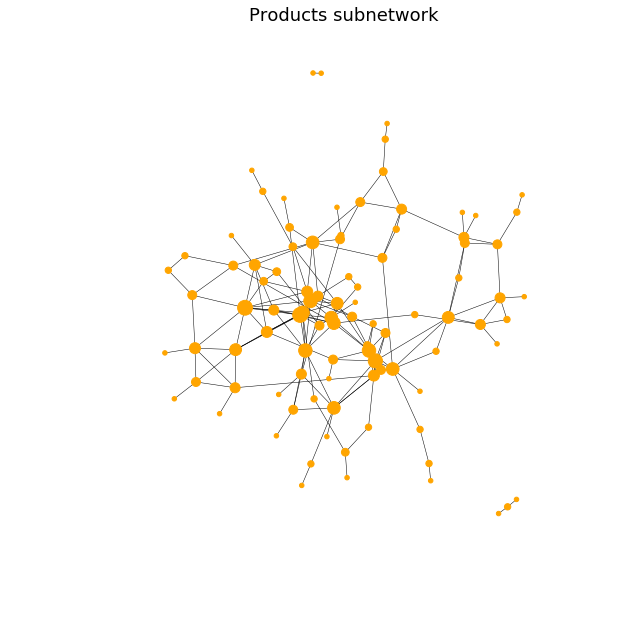
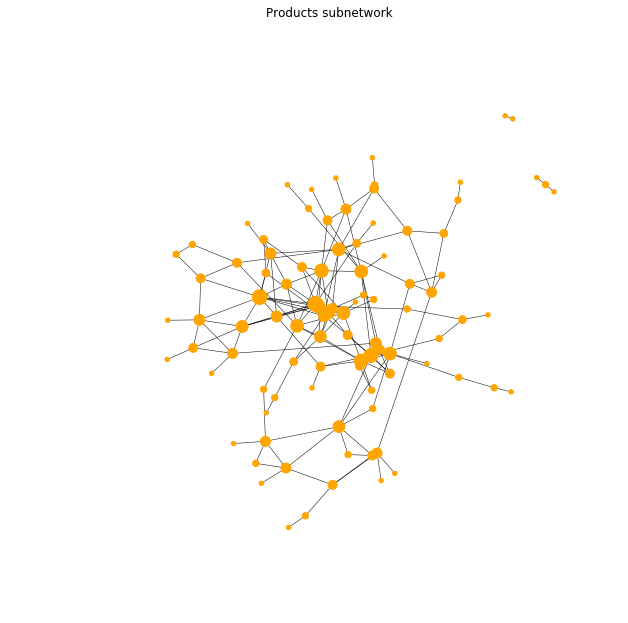
Update network analysis

diff --git a/_posts/2000-01-03-netowrkanalysis.md b/_posts/2000-01-03-netowrkanalysis.md
@@ -118,18 +118,38 @@ Below, the top 50 products are shown:
 ![product degree network](https://raw.githubusercontent.com/carmignanivittorio/SocialGraphProject/master/img/TopProduct.png)
 The result of this analysis reflects what we already found in the category analysis. Indeed, the top categories are the entertainment ones. Even though we already knew the top categories, this analysis revealed that there is a remarkable difference between them. This means the top category, Video DVD, has significantly more reviews than the second one, Music. The same is recursively respected among the other ones. Looking at the product's result, it confirms what category analysis suggested. In fact, almost all of the top 50 products correspond to DVD. An interesting point is that only two very famous mobile apps like Candy Crush Saga and Facebook, appear in the top 50. On the whole, we understood that customers are really in love with movies and DVD.
 {: .letft}
+### Subnetwork analysis
+Due to the large size of the network, we were not able to proceed the analysis using the projection based on the whole network. It requires an infeasible amount of time. Consequently, we decided to build the projection related to the [subnetwork](#Subnetwork). Throught this subnetwork's projection, we will study the centrality, assorativity and community property of the network.
+
+Below, the network is shown:
+{: .letft}
 ![product degree network](https://raw.githubusercontent.com/carmignanivittorio/SocialGraphProject/master/img/ProductDegreeNetwork.png)
 {: .center}
-
+The network has **134** nodes and **171** edges. Below, the degree distribution is shown:
+{: .letft}
+![subnetwork](https://raw.githubusercontent.com/carmignanivittorio/SocialGraphProject/master/img/SubProductDegreeDistribution.png)
+{: .center}
+The degree distribution follows the usual shape. Looking at the graph, it shows that there are some hub nodes in the middle which probably represent the products with more reviews.
+### Connectivity analysis
+In this section, we are interested in finding the centrality properties of the network. To do an accurate study, we will perform four different centrality analysis: degree centrality, closeness centrality, betweenness centrality and eigenvector centralities. By doing this, we want to understand if there are products more connected than others, as well as if there are some interesting relationship between the most connected and the isolated ones.
+#### Degree centrality
+This measure reflects what we have already seen before. In summary, it can be seen that there are more products which are poorly connected because they have been reviewed by customers which have reviewed only that product. Meanwhile, the products with higher degree correspond to the ones which have been reviewed by more active customers. With active we mean that they have reviewed more than one product.
+#### Closeness centrality
+{: .letft}
 ![product closeness](https://raw.githubusercontent.com/carmignanivittorio/SocialGraphProject/master/img/ProductClosenessNetwork.png)
 {: .center}
-
+This measure seems very similar to the customer network's one. The graph and the distribution suggest that there two main groups. The former is composed by nodes with a smaller closeness centrality. The latter is characterized by a higher value of closeness centrality. As in the customer network, we suppose that the first group represents the products with reviews made by inactive customers, whereas, the second one gathers the products reviewed by the active ones.
+#### Betweenness centrality
+{: .letft}
 ![product betweeness network](https://raw.githubusercontent.com/carmignanivittorio/SocialGraphProject/master/img/ProductBetweennessNetwork.png)
 {: .center}
-
+The graph and the distribution confirmed what we saw in the degree and closeness centralities. Indeed, the nodes with higher centralities have a higher betweenness. This is due to the fact that since they are more connected, they are more likely to work as a bridge between the shortest path of the other two nodes.
+#### Eigenvector centrality
+{: .letft}
 ![product eigenvector network](https://raw.githubusercontent.com/carmignanivittorio/SocialGraphProject/master/img/ProductEigenvectorNetwork.png)
 {: .center}
-
+The eigenvector centrality enforces what we have seen in the previous one. It can be seen that the bigger nodes become even bigger, whereas, the smaller ones become even smaller. This is due to the eigenvector centrality's property.
+{: .letft}
 ![product louvain communities](https://raw.githubusercontent.com/carmignanivittorio/SocialGraphProject/master/img/ProductLouvainCommunities.png)
 {: .center}
 
